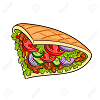
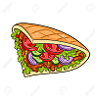
stand_08_02

diff --git a/style.css b/style.css
@@ -80,6 +80,7 @@ h1 {
 
 img{
     position: relative;
-    left: -100px;
+    left: -98px;
     bottom: 204px;
+    margin-right: 1px;
 }
